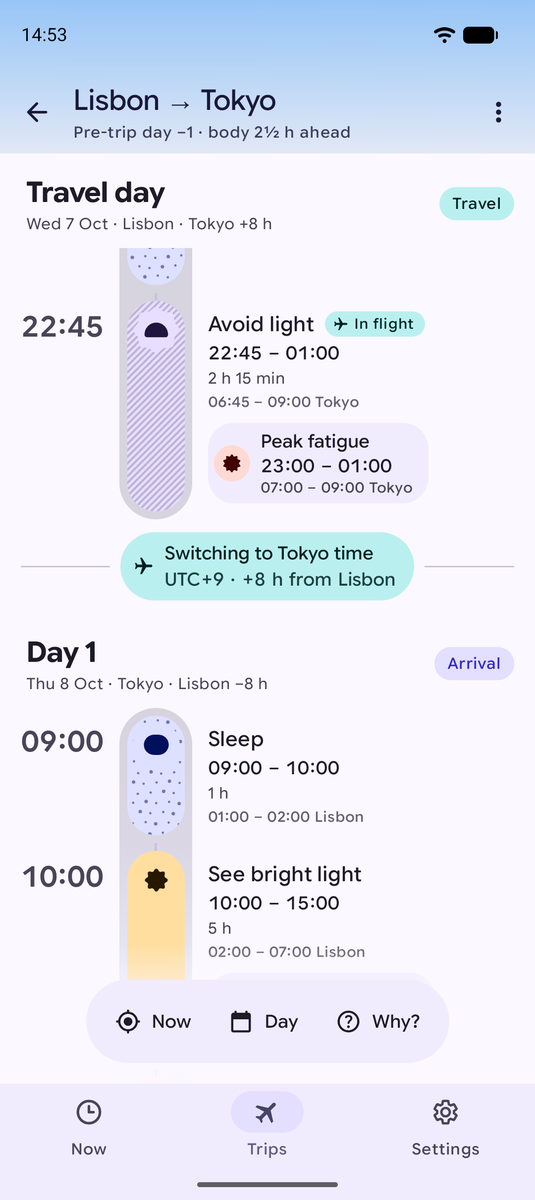
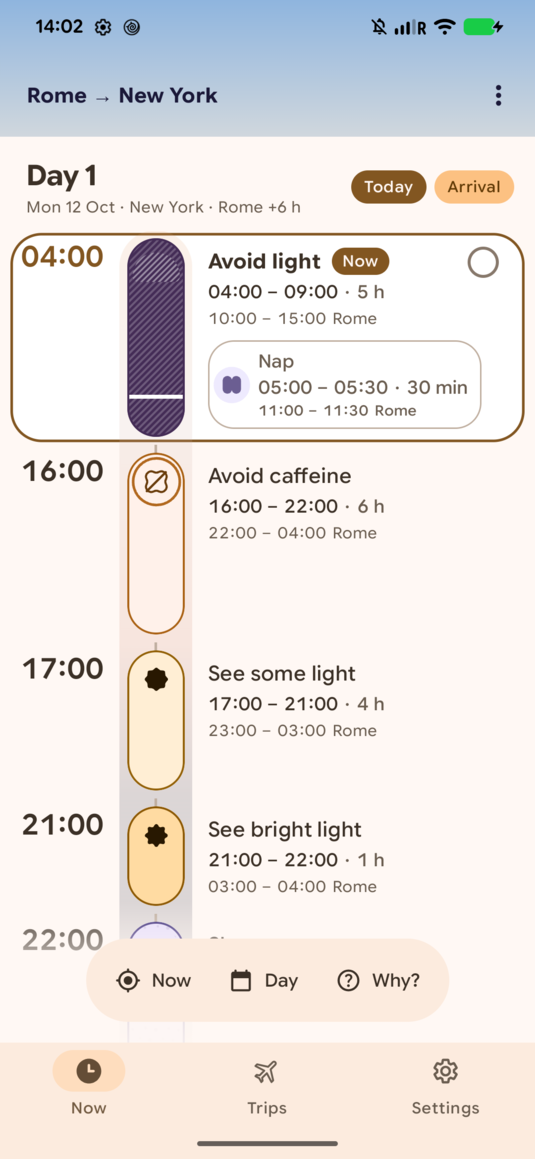
Now mark in the advice's own ink; user guide screenshots from the device

diff --git a/feature/plan/src/main/kotlin/dev/sebastiano/clockblocker/opus/feature/plan/RailColors.kt b/feature/plan/src/main/kotlin/dev/sebastiano/clockblocker/opus/feature/plan/RailColors.kt
@@ -52,12 +52,13 @@ internal class RailColors(
         val role = advice[type]
         val edge = edges.getValue(type)
         return when (state) {
-            CapsuleState.Now -> CapsuleColors(fill = role.color, edge = edge, ink = role.onColor.copy(alpha = PatternInkAlpha))
-            CapsuleState.Upcoming -> CapsuleColors(fill = role.container, edge = edge, ink = role.onContainer.copy(alpha = PatternInkAlpha))
+            CapsuleState.Now -> CapsuleColors(fill = role.color, edge = edge, ink = role.onColor.copy(alpha = PatternInkAlpha), mark = role.onColor)
+            CapsuleState.Upcoming -> CapsuleColors(fill = role.container, edge = edge, ink = role.onContainer.copy(alpha = PatternInkAlpha), mark = role.onContainer)
             CapsuleState.Past -> CapsuleColors(
                 fill = ColorMath.mix(role.container, page, PastWash),
                 edge = pastEdges.getValue(type),
                 ink = role.onContainer.copy(alpha = PatternInkAlpha * (1f - PastWash)),
+                mark = role.onContainer,
             )
         }
     }
@@ -119,9 +120,12 @@ internal fun rememberRailColors(): RailColors {
 /** Where a capsule's block is in time: past ones step back, the one happening now leads. */
 internal enum class CapsuleState { Past, Now, Upcoming }
 
-/** A capsule's [fill], its [edge] (drawn inside the shape) and its pattern [ink]. */
+/**
+ * A capsule's [fill], its [edge] (drawn inside the shape), its pattern [ink] and the [mark] across it where now falls
+ * (the fill's own content colour, so it shows on a dark Avoid light as well as on a pale See bright light).
+ */
 @Immutable
-internal data class CapsuleColors(val fill: Color, val edge: Color, val ink: Color)
+internal data class CapsuleColors(val fill: Color, val edge: Color, val ink: Color, val mark: Color)
 
 /** The advice hue's deep tone: its outline where it has one (pale vivid colours), else the vivid colour. */
 private val AdviceColorRole.deepTone: Color get() = if (hasOutline) outline else color

diff --git a/feature/plan/src/test/kotlin/dev/sebastiano/clockblocker/opus/feature/plan/RailContrastAuditTest.kt b/feature/plan/src/test/kotlin/dev/sebastiano/clockblocker/opus/feature/plan/RailContrastAuditTest.kt
@@ -104,6 +104,9 @@ class RailContrastAuditTest {
                     withClue("${p.name} $type edge on the body-clock strip") { stripWorst shouldBeGreaterThanOrEqual 3f }
                     withClue("${p.name} $type Now capsule edge") { now shouldBeGreaterThanOrEqual 3f }
                     withClue("${p.name} $type past capsule edge") { past shouldBeGreaterThanOrEqual 2f }
+                    // The mark across a Now capsule where now falls (device QA: onSurface vanished on a dark Avoid light).
+                    val nowCapsule = rail.capsule(type, CapsuleState.Now)
+                    withClue("${p.name} $type now mark") { ColorMath.contrast(nowCapsule.mark, nowCapsule.fill) shouldBeGreaterThanOrEqual 3f }
                     // Pushing the tone for contrast keeps the hue: the edge still says which advice it is.
                     val source = if (role.hasOutline) role.outline else role.color
                     if (ColorMath.chroma(source) > 0.04f) {

diff --git a/feature/plan/src/main/kotlin/dev/sebastiano/clockblocker/opus/feature/plan/PlanRail.kt b/feature/plan/src/main/kotlin/dev/sebastiano/clockblocker/opus/feature/plan/PlanRail.kt
@@ -695,7 +695,7 @@ private fun RailBlockRow(row: RailRow.Block, renderer: RailRenderer, timeColumn:
                             .align(BiasAlignment(0f, row.nowFraction * 2f - 1f))
                             .fillMaxWidth()
                             .height(3.dp)
-                            .background(MaterialTheme.colorScheme.onSurface),
+                            .background(capsule.mark),
                     )
                 }
             }

diff --git a/user-guide/following-your-plan.md b/user-guide/following-your-plan.md
@@ -14,7 +14,7 @@ it. If you want to know why a block is there, tap **Why?**.
 
 ## The plan screen
 
-<img src="images/plan-now.png" alt="The plan screen for Lisbon to Tokyo on pre-trip day −1, body 2½ hours ahead. Below the header, a strip of day pills with Pre −1 picked. The dial shows 18:06 in Lisbon and 20:48 body, with an arc saying Avoid light until 20:00, then sleep. The Now card says Avoid light, 1 h 54 min left, until 20:00 (04:00 Tokyo the next day), Also now: Avoid caffeine, with a Done button." width="300" />
+<img src="images/plan-now.png" alt="The plan screen for Rome to New York on Day 1, Adapting. The header shows FCO to JFK and Next: Avoid caffeine in 8 h, at 16:00 (22:00 Rome). Below, day pills from −1 to +3 with +1 picked. The dial shows 08:00 in New York and 10:28 body, 2½ h ahead, with an arc saying Avoid light until 09:00, then avoid caffeine. The Now card says Avoid light, 1 h left, until 09:00." width="300" />
 
 From top to bottom:
 
@@ -122,7 +122,7 @@ claims it's faster. See [the science](../docs/science.md) for details.
 
 ### The timeline
 
-<img src="images/timeline.png" alt="The Your plan timeline at the end of the travel day: Avoid light 22:45 to 01:00, marked In flight, with a Peak fatigue chip inside it, then a divider saying Switching to Tokyo time, UTC+9, +8 h from Lisbon. Below, Day 1, Thu 8 Oct, marked Arrival, with Sleep 09:00 to 10:00 and See bright light 10:00 to 15:00. Each block also shows the time in Lisbon. A toolbar at the bottom has Now, Day and Why?." width="300" />
+<img src="images/timeline.png" alt="The Your plan timeline on Day 1, Mon 12 Oct, in New York with Rome 6 h ahead. The block happening now, Avoid light 04:00 to 09:00 · 5 h, sits in an outlined card with a Now label, its start time in colour and a line across its striped capsule; a past Nap chip (05:00 to 05:30 · 30 min) rides inside it. Below, Avoid caffeine 16:00 to 22:00 · 6 h, See some light 17:00 to 21:00 · 4 h and See bright light 21:00 to 22:00 · 1 h, each capsule with a coloured edge and each block showing the time in Rome. A toolbar at the bottom has Now, Day and Why?." width="300" />
 
 The timeline lists every day of the plan: pre-trip days, the travel day, the days after you land, and the day you're
 adapted. Each block shows its local time and how long it lasts on one line ("22:45 – 01:00 · 2 h 15 min") and,
